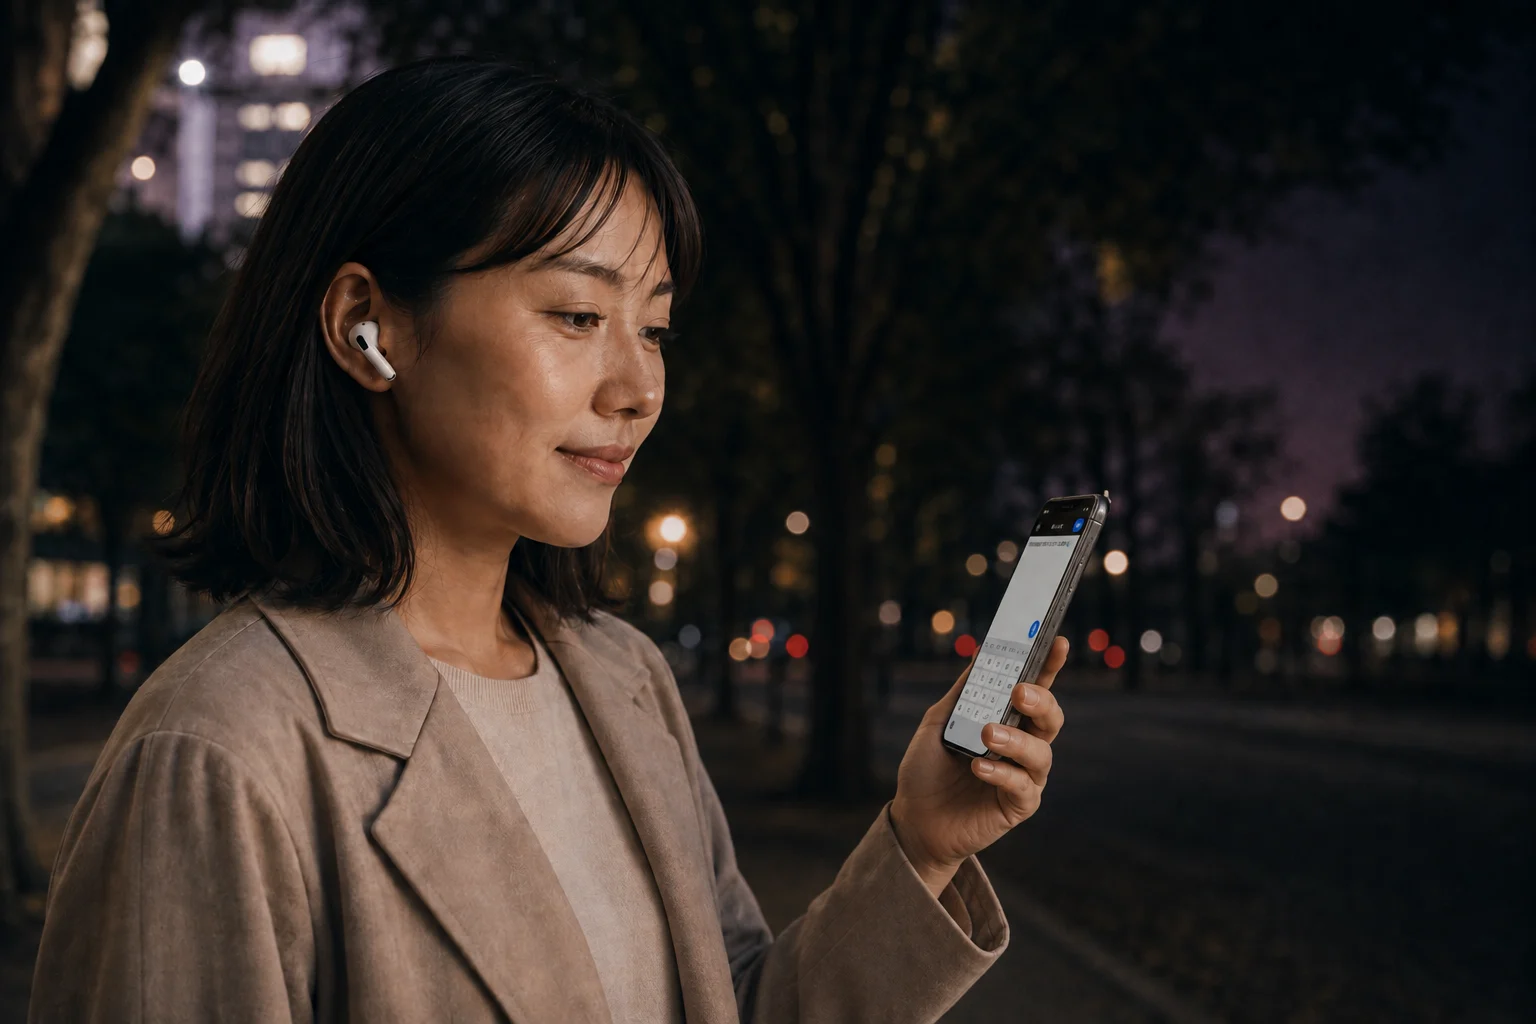
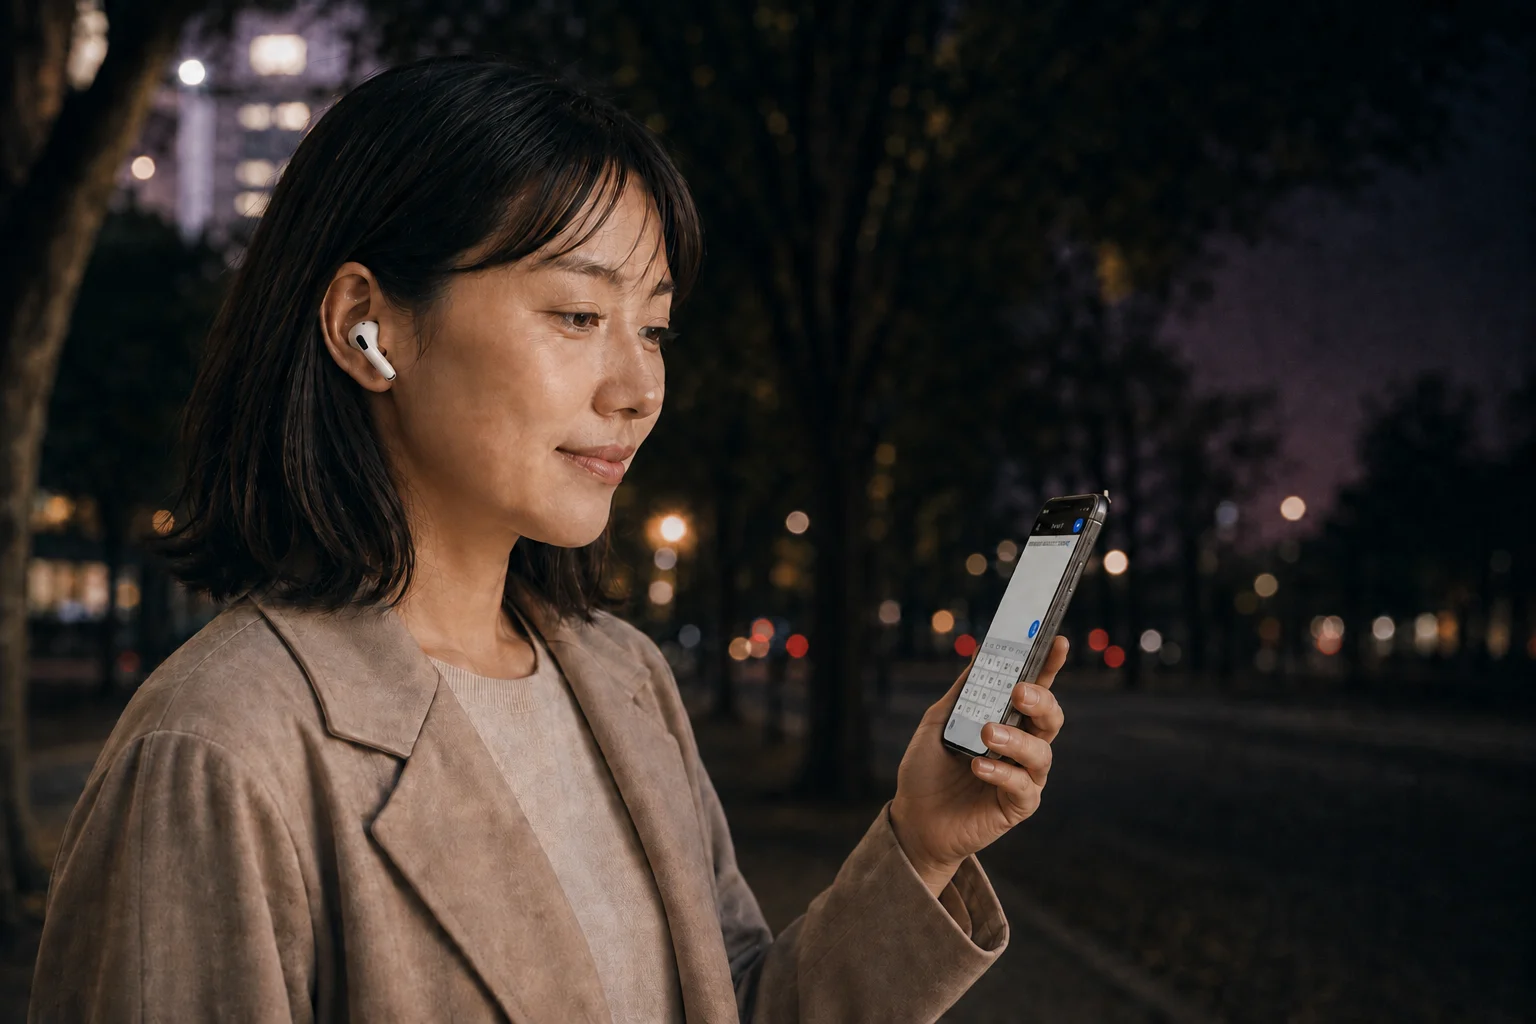
Soften skin shadows in homepage portrait

diff --git a/docs/design/hero-airpods-pro-20260907.md b/docs/design/hero-airpods-pro-20260907.md
@@ -6,7 +6,11 @@ Source app screen: assets/img/obsidian-voice-input/01-compose.webp. The photogra
 
 Selected asset: assets/img/voice-airpods-pro-1536.webp, with 900px and 600px responsive variants.
 
-## Final phone angle and hand-size correction
+## Final skin lighting correction
+
+Use case: lighting-weather. Retouch ONLY the skin lighting in this photograph. User likes the current pose and composition but skin shadows look unnaturally dark. Preserve EVERYTHING else exactly: same woman and facial expression, AirPods, phone angle pointing toward her face, phone size, small hand proportions, hand pose, clothing, background, framing, app screen. Lift ONLY the dark shadows on her skin with soft flattering neutral-warm fill light: eye sockets, under eyes, cheek near ear, jaw, neck, palm and fingers. Reduce the contrast between highlights and shadows on skin by roughly 30%, lift skin shadow exposure about 0.5 stop, gently even out harsh dark patches, keep realistic pores and subtle natural modeling. Face should feel healthy, softly lit, inviting, luminous but natural. Do not brighten the night background or coat. Do not lighten hair. Do not change identity, skin base tone, smile or facial geometry. No beauty-filter plastic smoothing, no washed-out skin, no orange cast, no glowing outlines. This is subtle photographic fill-light correction only, not a new picture.
+
+## Phone angle and hand-size correction
 
 Use case: precise-object-edit. Edit the attached photograph. Preserve the woman’s soft friendly expression, facial identity, head size and position, hair, taupe jacket, dark city background, lighting, composition, and existing phone's physical size. Correct ONLY phone orientation and hand proportions. IMPORTANT: the phone currently faces the camera, but must face the WOMAN'S FACE on the LEFT. Rotate the phone around its vertical axis 50 degrees so its screen normal points diagonally LEFT toward her eyes. The viewer should see a visibly narrower foreshortened screen and the right-side titanium edge, NOT a full front-facing rectangle. Phone top may tilt gently toward her. She is looking at and using her phone, NOT presenting it to the viewer. Her palm follows the device naturally, thumb rests near the closer side, four fingers curl behind device rather than all lined up visibly at edge. Reduce the hand overall by 15% (shorter fingers and smaller palm), keep realistic adult female hand proportions, preserve iPhone size. Her wrist must be straight neutral aligned with forearm. Repose forearm as necessary. Preserve Simple Memo screen UI, white memo area, black header, blue send and microphone buttons and Japanese keyboard, naturally perspective-projected and allowed to be less readable at this oblique angle. Keep white AirPods Pro in her ear, with recognizable short stem and silicone in-ear body. No other changes. The priority is a believable everyday pose of a woman looking at her OWN PHONE, never a salesperson showing a phone to camera.
 
